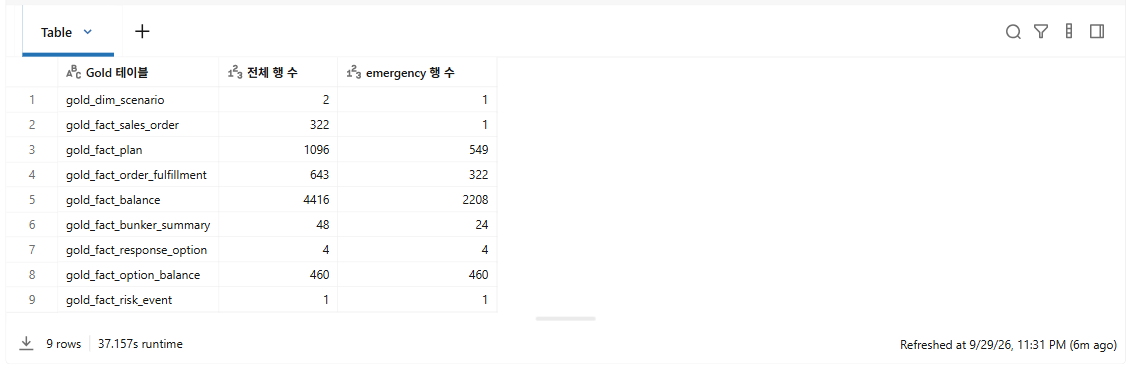
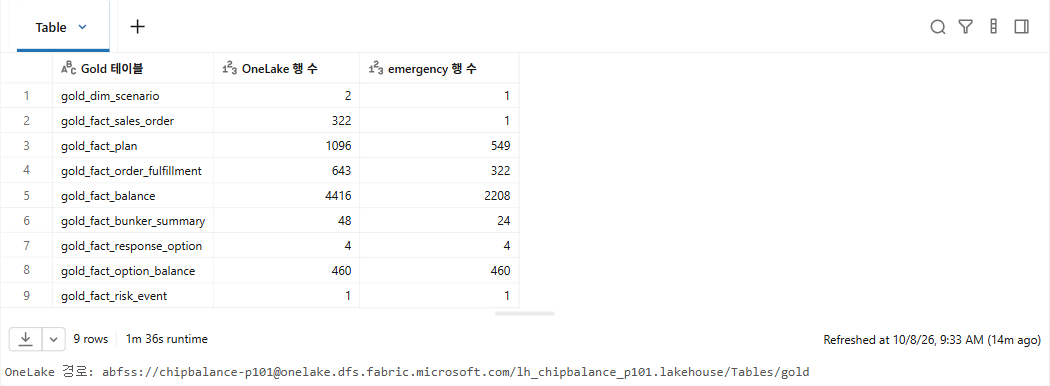
Screenshots for chapters 05-07 on the OneLake-only Gold flow; credential name chipbalance_onelake_hyosung in docs and admin guide

diff --git a/src/notebooks/01_setup.py b/src/notebooks/01_setup.py
@@ -29,7 +29,7 @@
 # MAGIC | `catalog`, `schema` | `lab_factory_p001`, `chipbalance_p001` | Bronze·Silver·Gold 테이블을 저장하는 Unity Catalog 위치 |
 # MAGIC | `raw_volume` | `/Volumes/lab_factory_p001/chipbalance_p001/raw` | 02에서 SAP·FPIMS·PVSS 원천 파일을 만드는 Volume |
 # MAGIC | `fabric_workspace`, `fabric_lakehouse` | `chipbalance-p001`, `lh_chipbalance_p001` | Gold를 저장하는 Fabric 작업 영역과 Lakehouse |
-# MAGIC | `service_credential` | `chipbalance_onelake` | OneLake에 저장할 때 쓰는 Managed Identity |
+# MAGIC | `service_credential` | `chipbalance_onelake_hyosung` | OneLake에 저장할 때 쓰는 Managed Identity |
 
 # COMMAND ----------
 import re
@@ -72,7 +72,7 @@ print("원천 파일 Volume:", raw_volume)
 # MAGIC Gold는 Fabric Lakehouse의 `Tables/gold` 폴더에 Delta 테이블로 저장합니다. Fabric은 이 폴더의 테이블을 자동으로 인식합니다.
 # MAGIC
 # MAGIC 인증에는 Managed Identity를 씁니다. 관리자가 Access Connector의 Managed Identity를
-# MAGIC Unity Catalog service credential `chipbalance_onelake`로 등록하고, Fabric 작업 영역에 Contributor 권한을 주었습니다.
+# MAGIC Unity Catalog service credential `chipbalance_onelake_hyosung`로 등록하고, Fabric 작업 영역에 Contributor 권한을 주었습니다.
 # MAGIC Notebook에는 비밀번호나 키를 넣지 않습니다. 저장할 때마다 service credential에서 토큰을 받아 씁니다.
 # MAGIC
 # MAGIC | 함수 | 하는 일 |

diff --git a/admin/00_admin_setup.py b/admin/00_admin_setup.py
@@ -5,7 +5,7 @@
 # MAGIC
 # MAGIC | 단계 | 하는 일 |
 # MAGIC |---|---|
-# MAGIC | 2 | Access Connector의 Managed Identity를 service credential `chipbalance_onelake`로 등록 |
+# MAGIC | 2 | Access Connector의 Managed Identity를 service credential `chipbalance_onelake_hyosung`로 등록 |
 # MAGIC | 3 | 참가자별 Catalog·스키마·Volume 만들기 |
 # MAGIC | 4 | 참가자에게 service credential, Catalog, 스키마, Volume 권한 주기 |
 # MAGIC
@@ -22,7 +22,7 @@
 
 # COMMAND ----------
 access_connector_id = "/subscriptions/<구독 ID>/resourceGroups/<리소스 그룹>/providers/Microsoft.Databricks/accessConnectors/ac-chipbalance-onelake"
-service_credential = "chipbalance_onelake"
+service_credential = "chipbalance_onelake_hyosung"
 
 participants = {
     "p101": "user@contoso.com",

diff --git a/docs/05-gold-onelake.rst b/docs/05-gold-onelake.rst
@@ -133,6 +133,10 @@ Fabric은 이 Gold로 Ontology와 Power BI 보고서를 만들고, Ontology agen
 
    **예상 결과:** 18행. ``gold_fact_balance``\ 는 2,208행(Bunker 24개 × 92일)입니다. 표 아래로 스크롤하면 나머지 행이 보이고, 맨 아래에 OneLake 경로가 표시됩니다.
 
+   .. image:: ../assets/screenshots/d05-onelake.png
+      :alt: 9. OneLake의 Gold 확인 결과. Notebook의 Gold, OneLake 테이블, OneLake 행 수 열이 있는 18행 표입니다. gold_dim_line은 gold.dim_line으로 6행이고, 아래에 OneLake 경로 abfss://chipbalance-p101@onelake.dfs.fabric.microsoft.com/lh_chipbalance_p101.lakehouse/Tables/gold가 표시됩니다.
+      :width: 900
+
 3. Fabric Lakehouse에서 Gold 확인
 ------------------------------------
 
@@ -140,11 +144,11 @@ Fabric은 이 Gold로 Ontology와 Power BI 보고서를 만들고, Ontology agen
 #. 왼쪽 **Workspaces**\ 에서 작업 영역 ``chipbalance-p001``\ 을 열고, 유형이 **Lakehouse**\ 인 ``lh_chipbalance_p001``\ 을 엽니다.
 #. 왼쪽 **Explorer**\ 에서 **Tables** > ``gold``\ 를 펼치고 ``fact_opening_stock``\ 을 누릅니다.
 
-**예상 결과:** ``gold`` 스키마에 테이블 18개가 있고, 가운데에 ``fact_opening_stock`` 24행이 보입니다. ``BNK-L3-2``\ 는 ``30370``\ 입니다.
+**예상 결과:** ``gold`` 스키마에 테이블 18개가 있고(06장까지 실행했다면 21개), 가운데에 ``fact_opening_stock`` 24행이 보입니다. ``BNK-L3-2``\ 는 ``30370``\ 입니다.
 ``reading_ts``\ 는 UTC로 표시되어 ``2026-09-30T14:00:00Z``\ (한국 시간 9월 30일 23시)입니다.
 
 .. image:: ../assets/screenshots/d05-lakehouse.png
-   :alt: Fabric Lakehouse lh_chipbalance_p001. Explorer에서 Tables > gold 아래에 dim_bunker부터 fact_usage_factor까지 테이블이 있고, 가운데에 fact_opening_stock 24행이 보입니다. BNK-L3-2의 opening_kg는 30370입니다.
+   :alt: Fabric Lakehouse lh_chipbalance_p101. Explorer에서 Tables > gold 아래에 dim_bunker부터 fact_response_option까지 테이블이 있고, 가운데에 fact_opening_stock 24행이 보입니다. BNK-L3-2의 opening_kg는 30370입니다. 06장까지 실행한 뒤의 화면이라 gold 테이블이 21개입니다.
    :width: 1000
 
 4. SQL로 같은 결과 확인

diff --git a/docs/06-emergency-order.rst b/docs/06-emergency-order.rst
@@ -185,6 +185,10 @@
    **예상 결과:** 9행. ``gold_fact_plan`` 1,096행(``emergency`` 549행), ``gold_fact_balance`` 4,416행(``emergency`` 2,208행),
    ``gold_fact_response_option`` 4행, ``gold_fact_option_balance`` 460행, ``gold_fact_risk_event`` 1행. 표 아래에 OneLake 경로가 표시됩니다.
 
+   .. image:: ../assets/screenshots/d06-gold.png
+      :alt: 12. Gold 테이블 저장 결과. Gold 테이블, OneLake 행 수, emergency 행 수 열이 있는 9행 표입니다. gold_dim_scenario 2와 1, gold_fact_sales_order 322와 1, gold_fact_plan 1096과 549, gold_fact_balance 4416과 2208이고, 아래에 OneLake 경로가 표시됩니다.
+      :width: 900
+
 정리: 판단 기준으로 고른 추천안
 ----------------------------------
 

diff --git a/docs/07-genie.rst b/docs/07-genie.rst
@@ -17,6 +17,10 @@ Gold가 Unity Catalog에 없으므로, Genie가 Gold를 보려면 OneLake를 Uni
 
 **예상 결과:** **1. 설정과 Gold 불러오기**\ 에서 ``OneLake에서 불러온 Gold: 21개``\ 가 표시되고, **2. Genie 질문의 정답**\ 에서 6행 표가 나옵니다.
 
+.. image:: ../assets/screenshots/d07-answers.png
+   :alt: 2. Genie 질문의 정답 셀 결과. 번호, 정답, 근거 열이 있는 6행 표입니다. Q1 없음, Q2 BNK-L3-2, Q3 모두 준수, Q4 BNK-L1-2, Q5 10/09, Q6 OPT-2입니다.
+   :width: 900
+
 .. list-table::
    :header-rows: 1
    :widths: 6 50 44
